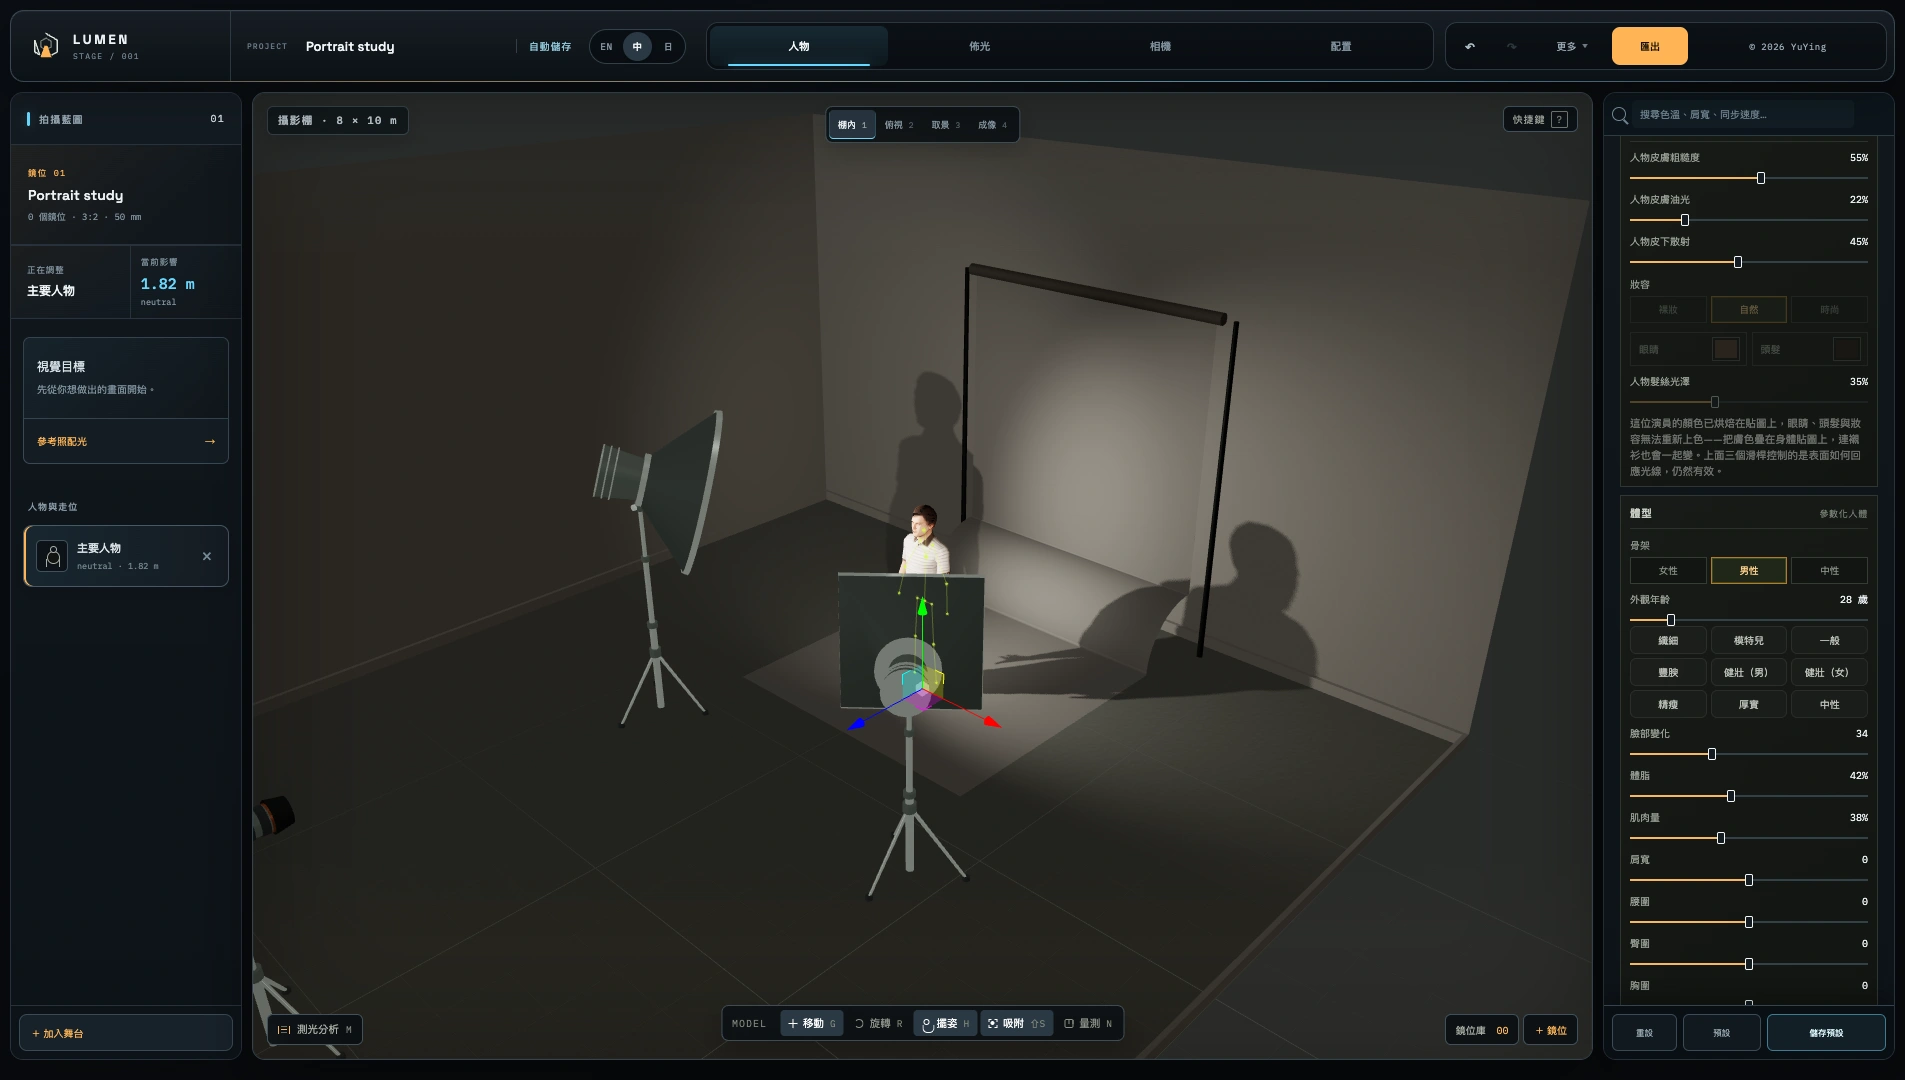
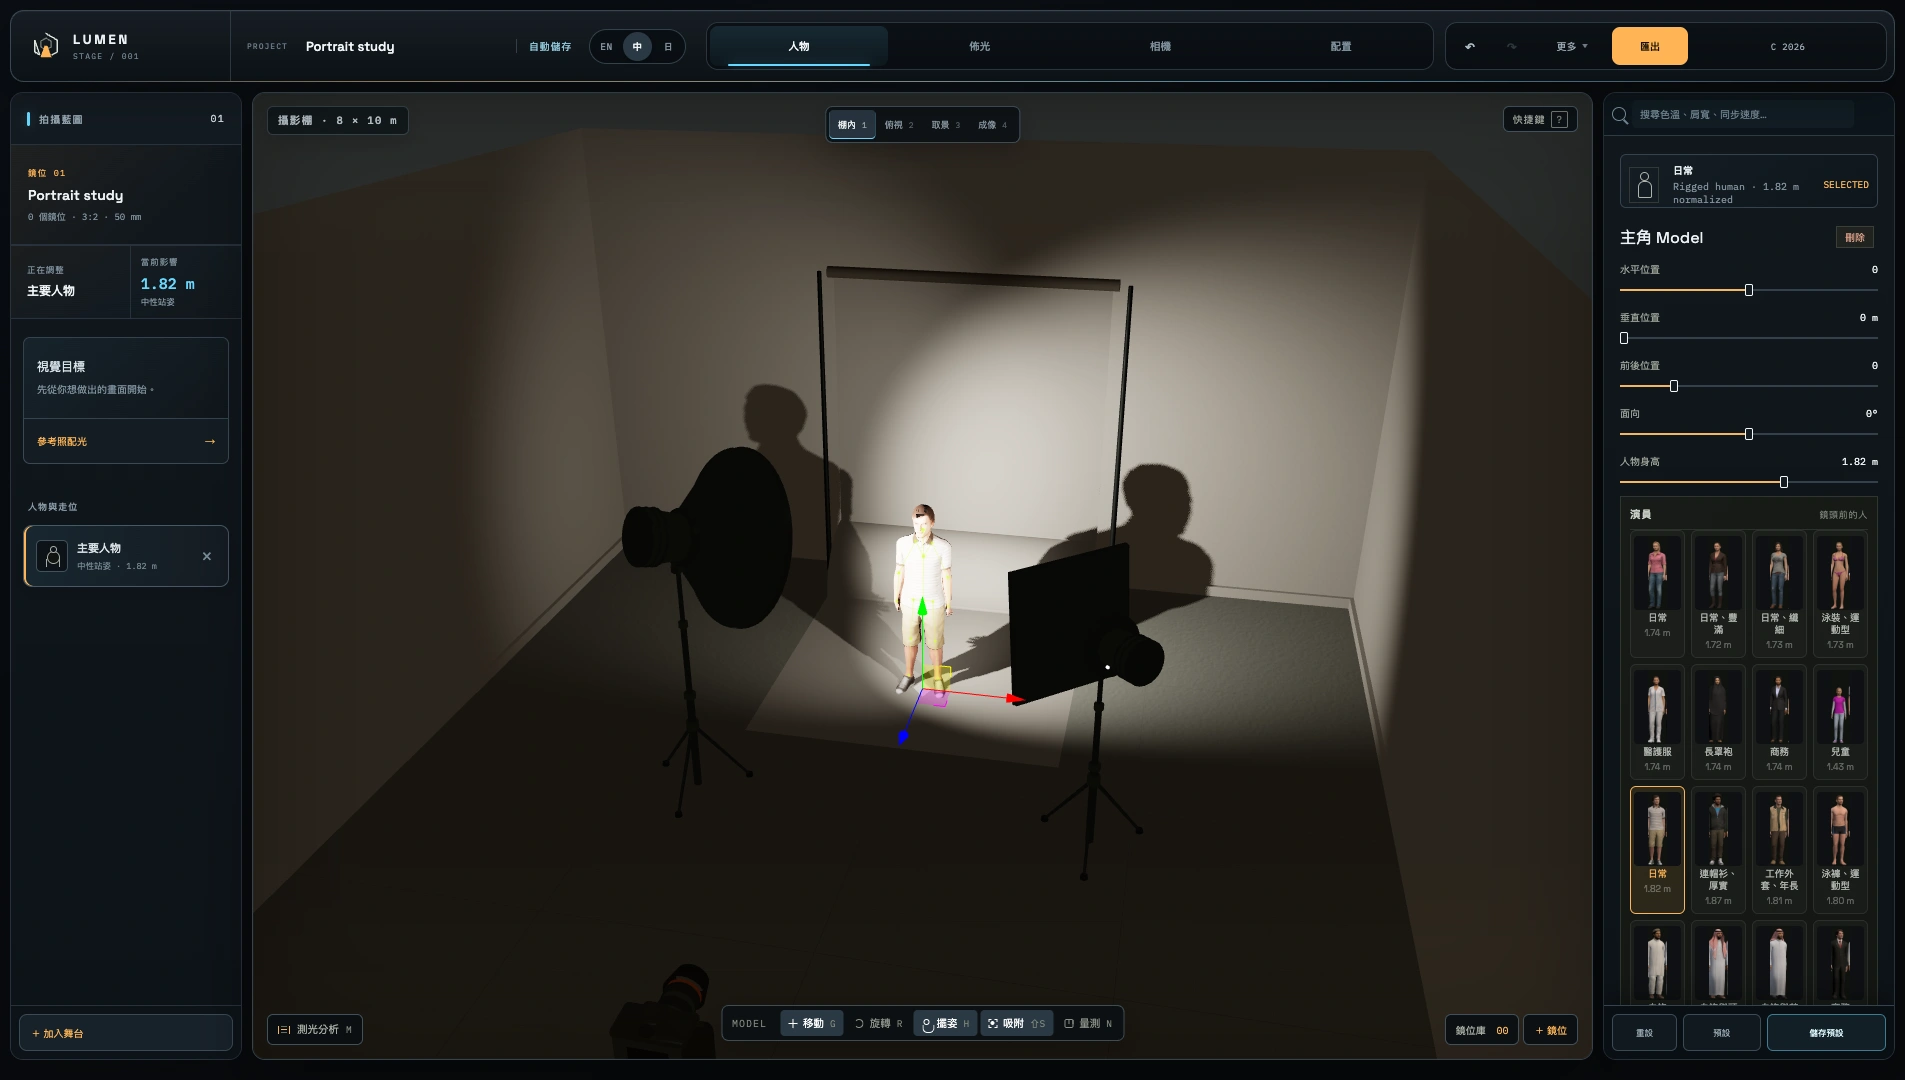
Light the editor for working in, and re-shoot the stills to match
The editor's head gain went back to 0.08 so the 4K previews would not
clip, and the previews were then captured that way. That is the wrong
master. Measured as the standard deviation of frame luminance, the
working view was at 0.089 against 0.170 at a head gain of 0.4 -- flat
enough that you cannot see where the key falls, in the one viewport whose
job is to show exactly that. The tool is used far more than the
screenshot is looked at.

So 0.4, and every still re-captured at it rather than the lighting bent
to the picture. The old and new homepage shots differ by a mean of 12.6
of 255 with a fifth of the frame moving more than 16, and the new still
now measures 0.167 against the viewport's 0.170 -- the screenshot and the
app finally agree. 33 stills, 33.0 MB of PNG down to 4.8 MB of WebP.

refresh-media could not run at all to do it. Three things were wrong:

- It required Chrome at a hard path, and this machine has not had
  Chrome.app since 2026-09-03, so it exited before opening a page. It now
  falls back to Playwright's own build.
- It waited for Masculine and Feminine buttons. Those are gone from both
  shells for the main subject: the actors are photographed, so choosing a
  body means casting a different person, and I hid the panel that held
  them on 2026-09-04 without noticing this script read it. Both paths now
  cast through the store, picking the first adult of the sex asked for so
  the cast can grow without touching this.
[…]

diff --git a/src/components/StudioScene.tsx b/src/components/StudioScene.tsx
@@ -3735,9 +3735,37 @@ function ExposureProbe() {
   return null
 }
 
-/** Editor working light keeps faces readable without changing camera/export energy. */
+/**
+ * Working light for the editor viewport, and only for the editor viewport.
+ *
+ * The room is lit by strobes measured in hundreds of watt-seconds and the
+ * scene's own ambient tops out around 1.3, so a first load once rendered 48%
+ * of the frame at pure black -- the far wall, the floor outside the key's pool
+ * and both stands were simply not there. You cannot block a shot in a room you
+ * cannot see. The editor already declines to be photometric (its exposure is
+ * pinned rather than derived from ISO and aperture), so lighting it to be read
+ * is the same bargain, not a new one.
+ *
+ * Both numbers are a balance and both ends of it are measurable, as the
+ * standard deviation of frame luminance on a default scene. Lifting ambient
+ * alone gives contrast but a harsh frame: 0.229. Dropping the heads to 0.08
+ * and lifting ambient to 70 removes the black but flattens the key's pool
+ * until you cannot see where the light lands, which is the one thing this
+ * viewport exists to show: 0.089. 40 and 0.4 measure 0.179, and no black pixel
+ * at either end.
+ *
+ * These two also decide how the marketing screenshots look, because
+ * scripts/refresh-site-stills.mjs photographs this viewport. That pulls them
+ * toward whatever flatters a still, and it is the wrong master: the tool is
+ * used far more than the screenshot is looked at. Change them for the working
+ * view, then re-capture -- do not tune them to the picture.
+ *
+ * The viewfinder and the path renderer are excluded: those two have to keep
+ * telling the truth, because that is the photograph. Solo keeps its near-black
+ * as well, since killing everything but one light is the whole point of it.
+ */
 const EDITOR_AMBIENT = 40
-const EDITOR_HEAD_GAIN = 0.08
+const EDITOR_HEAD_GAIN = 0.4
 
 const MemoMannequin = memo(Mannequin)
 const MemoSoftbox = memo(Softbox)
